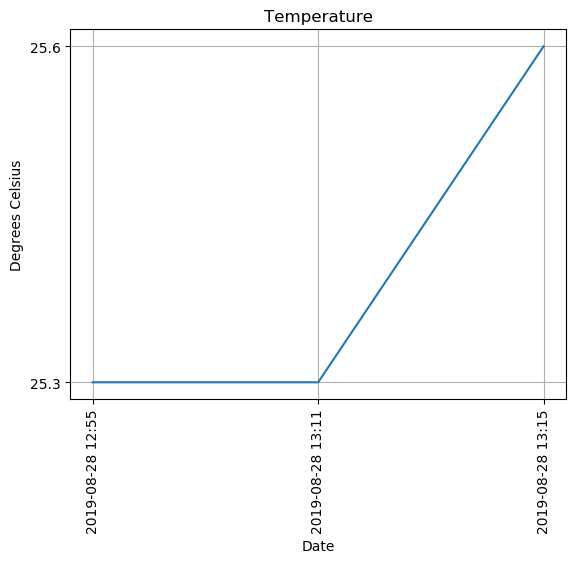
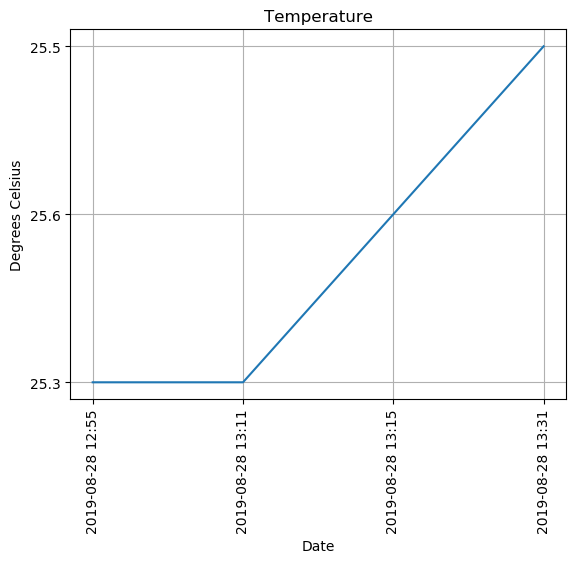
2019-08-28 13:31

diff --git a/monitor.py b/monitor.py
@@ -15,6 +15,7 @@ import Adafruit_DHT
 import requests
 import datetime
 
+cameraCaptureIsOn = False
 now = datetime.datetime.now()
 temperatureFileName = '/share/raspiEyes/temperatures.txt'
 temperatureImageFileName = '/share/raspiEyes/temperatures.png'
@@ -25,12 +26,12 @@ gitRepoPath = '/share/raspiEyes/'
 gitCommitMessage = f'{now.strftime("%Y-%m-%d %H:%M")}'
 
 # pir = MotionSensor(4)
-
-camera = PiCamera()
-camera.start_preview()
-sleep(5)
-camera.capture(captureImageFileName)
-camera.stop_preview()
+if cameraCaptureIsOn:
+	camera = PiCamera()
+	camera.start_preview()
+	sleep(5)
+	camera.capture(captureImageFileName)
+	camera.stop_preview()
 
 # Attempt to get a sensor reading. The read_retry method will
 # retry up to 15 times, waiting 2 seconds between attempts
